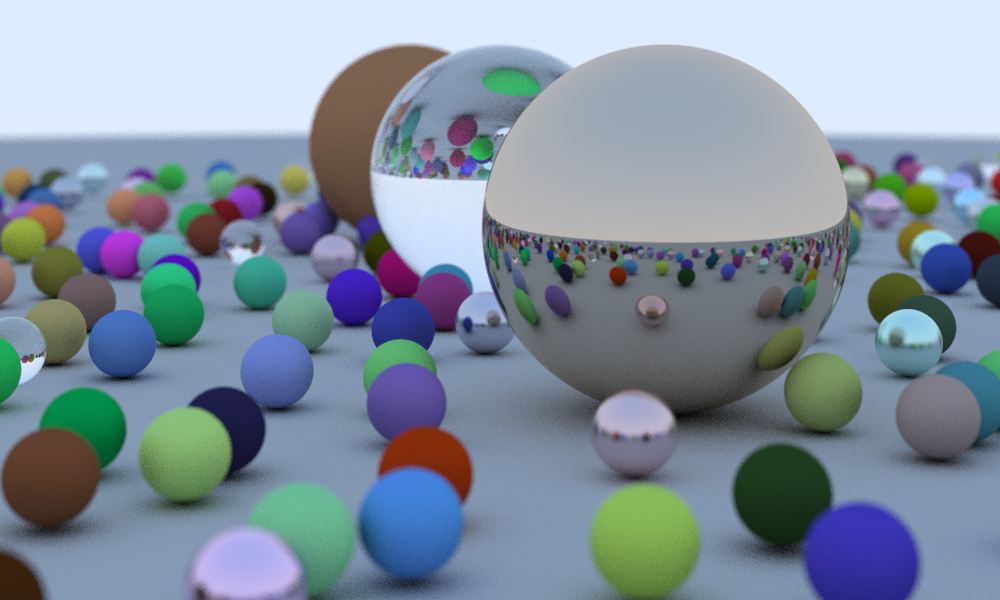
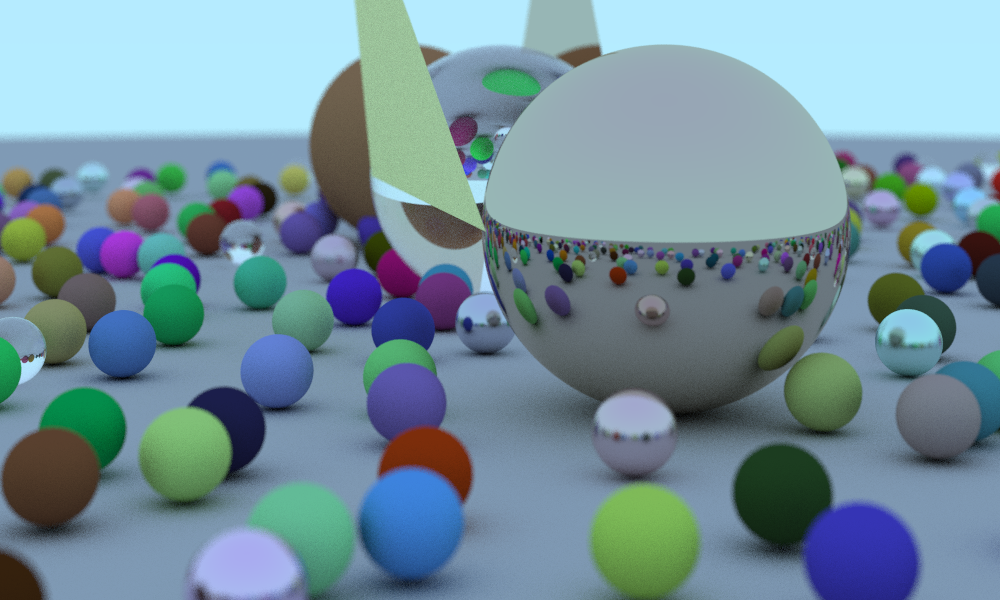
Triangle

diff --git a/main.cpp b/main.cpp
@@ -16,21 +16,21 @@ vec3 backgroundColor(const ray& r)
     vec3 unit = r.direction;
     float t1 = 0.5f - (0.5f * unit.y);
     float t2 = 0.5f + (0.5f * unit.y);
-    return t1 * vec3(1.f, 1.f, 1.f) + t2 * vec3(0.5f, 0.7f, 1.f);
+    return t1 * vec3(0.5f, 1.f, 1.f) + t2 * vec3(0.5f, 0.7f, 1.f);
 }
-vec3 color(const ray& r, const hitable* world, const float minDistance, const float maxDistance,
+vec3 color(const ray& r, const hitable* hitable, const float minDistance, const float maxDistance,
            const unsigned int depth, const unsigned int maxDepth)
 {
     hitRecord rec;
-    bool isHit = world->hit(r, minDistance, maxDistance, rec);
+    bool isHit = hitable->hit(r, minDistance, maxDistance, rec);
     if (isHit) {
         ray scattered;
         vec3 attenuation;
         if (depth < maxDepth && rec.mat->scatter(r, rec, attenuation, scattered)) {
             return attenuation *
-                   color(scattered, world, minDistance, maxDistance, depth + 1, maxDepth);
+                   color(scattered, hitable, minDistance, maxDistance, depth + 1, maxDepth);
         }
-        return vec3(0.f, 0.f, 0.f);
+        return vec3(0, 0, 0);
     }
     return backgroundColor(r);
 }
@@ -38,7 +38,7 @@ hitable* randomScene()
 {
     const unsigned int n = 500u;
     unsigned int i = 0;
-    hitable** list = new hitable*[n + 1];
+    hitable** list = new hitable*[n];
     list[i++] = new sphere(vec3(0, -1000, 0), 1000, new lambertian(vec3(0.5f, 0.5f, 0.5f)));
     for (int a = -11; a < 11; a++) {
         for (int b = -11; b < 11; b++) {
@@ -67,6 +67,11 @@ hitable* randomScene()
     list[i++] = new sphere(vec3(0, 1, 0), 1.0, new dielectric(vec3(1.f, 1.f, 1.f), 1.5));
     list[i++] = new sphere(vec3(-4, 1, 0), 1.0, new lambertian(vec3(0.4, 0.2, 0.1)));
     list[i++] = new sphere(vec3(4, 1, 0), 1.0, new metal(vec3(0.7, 0.6, 0.5), 0.0));
+
+    list[i++] = new triangle(vec3(0, 1, -1), vec3(-2, 4, -1), vec3(-4, 1, -1),
+                             new metal(vec3(0.7, 0.6, 0.5), 0.0));
+    list[i++] =
+        new triangle(vec3(0, 1, 1), vec3(4, 1, 1), vec3(-2, 4, 1), new lambertian(vec3(1, 1, 0.5)));
 
     return new hitableList(list, i);
 }
@@ -128,40 +133,33 @@ void raycastWorld(const raycastWorldParameters& params, const hitable* world, co
                 params.startWidth, params.endWidth, params.startHeight, params.endHeight,
                 params.maxDepth, params.sampling, thisId, duration);
 }
-int main()
+void singlethreadRaycast(const float minDistance, const float maxDistance,
+                         const unsigned int maxDepth, const unsigned int sampling,
+                         const unsigned int width, const unsigned int height,
+                         const unsigned int channels, const hitable* world, const camera& cam,
+                         unsigned char* const data)
 {
-    const float minDistance = 0.001f;
-    const float maxDistance = 10000.f;
-    const unsigned int maxDepth = 40u;
-    const unsigned int sampling = 100u;
-
-    // Output image data
-    const unsigned int width = 1000u;
-    const unsigned int height = 600u;
-    const unsigned int channels = 4u; // STBI_rgb_alpha
-
-    // Multi-threading
-    const unsigned int threadCount = std::thread::hardware_concurrency();
-
+    const raycastWorldParameters parameters{.minDistance = minDistance,
+                                            .maxDistance = maxDistance,
+                                            .maxDepth = maxDepth,
+                                            .sampling = sampling,
+                                            .width = width,
+                                            .height = height,
+                                            .startWidth = 0,
+                                            .endWidth = width,
+                                            .startHeight = 0,
+                                            .endHeight = height,
+                                            .channels = channels};
+    raycastWorld(parameters, world, cam, data);
+}
+void multithreadRaycast(const float minDistance, const float maxDistance,
+                        const unsigned int maxDepth, const unsigned int sampling,
+                        const unsigned int width, const unsigned int height,
+                        const unsigned int channels, const hitable* world, const camera& cam,
+                        unsigned char* const data, unsigned int threadCount)
+{
     std::vector<std::thread> workers;
 
-    const unsigned int outputSize = width * height * channels;
-
-    // Camera
-    vec3 lookFrom(13, 2, 3);
-    vec3 lookAt(0, 0, 0);
-    float distanceToFocus = 10.0;
-    float aperture = 0.1;
-
-    camera cam(lookFrom, lookAt, /* up */ vec3(0, 1, 0), /* fov */ 20, (float)width / height,
-               aperture, distanceToFocus);
-
-    // Scene
-    hitable* world = randomScene();
-
-    unsigned char* const data = new unsigned char[outputSize];
-
-    auto t1 = std::chrono::high_resolution_clock::now();
     unsigned int startHeight = 0u;
     for (int i = 0; i < threadCount; i++) {
         const unsigned int startWidth = 0u;
@@ -190,6 +188,47 @@ int main()
     }
     for (int i = 0; i < threadCount; i++) {
         workers[i].join();
+    }
+}
+int main()
+{
+    const float minDistance = 0.001f;
+    const float maxDistance = 10000.f;
+    const unsigned int maxDepth = 40u;
+    const unsigned int sampling = 100u;
+
+    // Output image data
+    const unsigned int width = 1000u;
+    const unsigned int height = 600u;
+    const unsigned int channels = 4u; // STBI_rgb_alpha
+
+    // Multi-threading
+    const unsigned int threadCount = std::thread::hardware_concurrency();
+
+    const unsigned int outputSize = width * height * channels;
+
+    // Camera
+    vec3 lookFrom(13, 2, 3);
+    vec3 lookAt(0, 0, 0);
+    float distanceToFocus = 10.0;
+    float aperture = 0.1;
+
+    camera cam(lookFrom, lookAt, /* up */ vec3(0, 1, 0), /* fov */ 20, (float)width / height,
+               aperture, distanceToFocus);
+
+    // Scene
+    hitable* world = randomScene();
+
+    unsigned char* const data = new unsigned char[outputSize];
+
+    auto t1 = std::chrono::high_resolution_clock::now();
+
+    if (threadCount == 1) {
+        singlethreadRaycast(minDistance, maxDistance, maxDepth, sampling, width, height, channels,
+                            world, cam, data);
+    } else {
+        multithreadRaycast(minDistance, maxDistance, maxDepth, sampling, width, height, channels,
+                           world, cam, data, threadCount);
     }
 
     auto t2 = std::chrono::high_resolution_clock::now();

diff --git a/hitable.h b/hitable.h
@@ -31,17 +31,17 @@ class sphere : public hitable
         float c = vec3::dot(oc, oc) - radius * radius;
         float discriminant = b * b - a * c;
         if (discriminant > 0) {
-            float temp = (-b - sqrtf(b * b - a * c)) / a;
-            if (temp < tMax && temp > tMin) {
-                rec.distance = temp;
+            float t = (-b - sqrtf(b * b - a * c)) / a;
+            if (t < tMax && t > tMin) {
+                rec.distance = t;
                 rec.point = r.getPoint(rec.distance);
                 rec.normal = (rec.point - center) / radius;
                 rec.mat = mat;
                 return true;
             }
-            temp = (-b + sqrtf(b * b - a * c) / a);
-            if (temp < tMax && temp > tMin) {
-                rec.distance = temp;
+            t = (-b + sqrtf(b * b - a * c) / a);
+            if (t < tMax && t > tMin) {
+                rec.distance = t;
                 rec.point = r.getPoint(rec.distance);
                 rec.normal = (rec.point - center) / radius;
                 rec.mat = mat;
@@ -53,6 +53,60 @@ class sphere : public hitable
 
     vec3 center;
     float radius;
+    material* mat;
+};
+
+class triangle : public hitable
+{
+  public:
+    triangle(){};
+    ~triangle() { delete mat; };
+    triangle(vec3 p1, vec3 p2, vec3 p3, material* mat) : p1(p1), p2(p2), p3(p3), mat(mat){};
+    virtual bool hit(const ray& r, float tMin, float tMax, hitRecord& rec) const
+    {
+        vec3 p1p2 = p2 - p1;
+        vec3 p1p3 = p3 - p1;
+        vec3 pvec = vec3::cross(r.direction, p1p3);
+        float det = vec3::dot(p1p2, pvec);
+        // Backface culling
+        // if the determinant is negative the triangle is backfacing
+        // if the determinant is close to 0, the ray misses the triangle
+        if (det < mathx::epsilon) {
+            return false;
+        }
+        // ray and triangle are parallel if det is close to 0
+        if (fabs(det) < mathx::epsilon) {
+            return false;
+        }
+        float invDet = 1 / det;
+        vec3 tvec = r.origin - p1;
+        float u = vec3::dot(tvec, pvec) * invDet;
+        if (u < 0 || u > 1) {
+            return false;
+        }
+        vec3 qvec = vec3::cross(tvec, p1p2);
+        float v = vec3::dot(r.direction, qvec) * invDet;
+        if (v < 0 || u + v > 1) {
+            return false;
+        }
+        float t = vec3::dot(p1p3, qvec) * invDet;
+        if (t > tMax || t < tMin) {
+            return false;
+        }
+
+        rec.distance = t;
+        rec.point = r.getPoint(rec.distance);
+        rec.normal = vec3::cross(p1p2, p1p3).normalized();
+        if (vec3::dot(r.direction, rec.normal) > 0) {
+            rec.normal = -rec.normal;
+        }
+        rec.mat = mat;
+        return true;
+    };
+
+    vec3 p1;
+    vec3 p2;
+    vec3 p3;
     material* mat;
 };
 

diff --git a/mathx.h b/mathx.h
@@ -7,6 +7,7 @@ const static float pi = 3.1415926535897932f;
 const static float deg2rad = pi / 180;
 const static float rad2deg = 180 / pi;
 const static float golden = 1.61803398875f;
+const static float epsilon = 0.00001f;
 } // namespace mathx
 
 #endif
